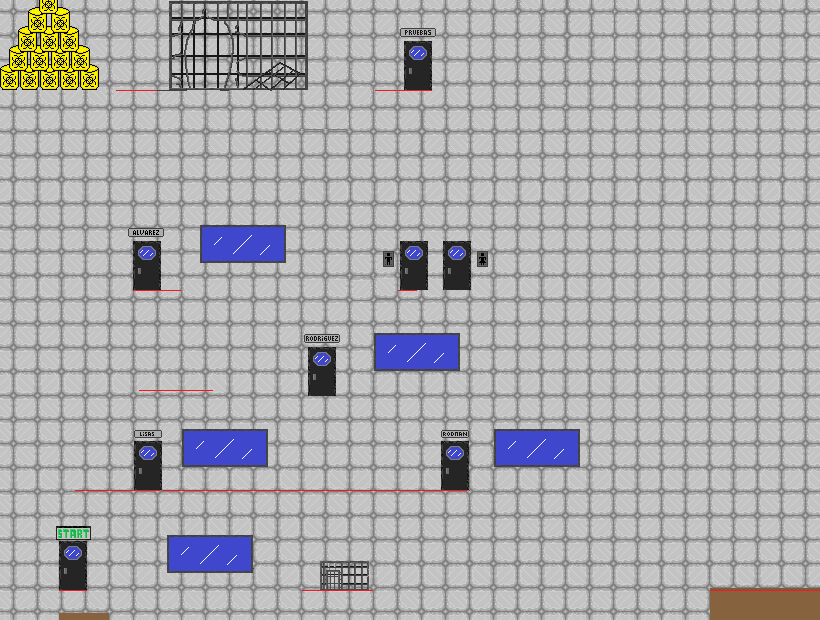
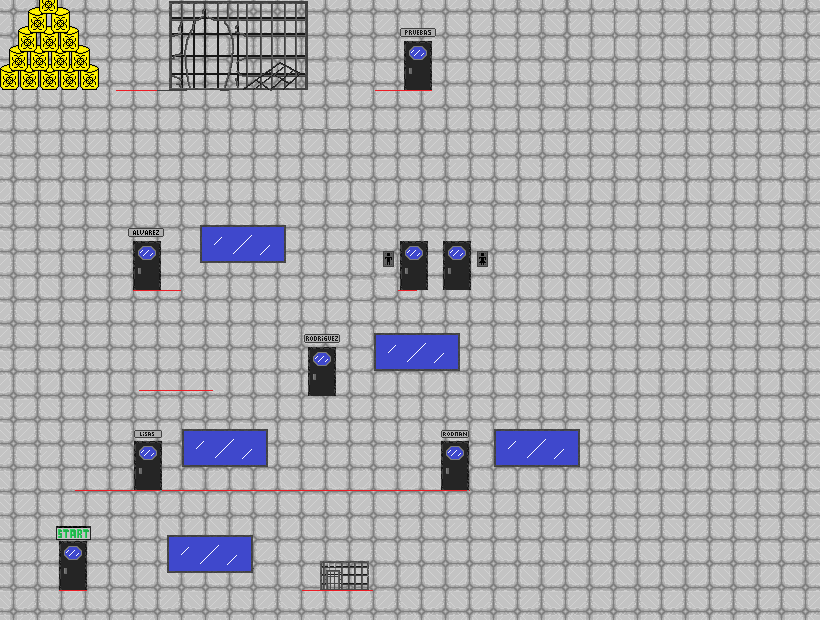
Fondo antiguo

Changed region(s): [[0.8537, 0.95, 1.0, 1.0], [0.061, 0.9806, 0.1524, 1.0]]

diff --git a/Donkey - Grupo Lisas- Apellido2 - Apellido3/src/juego/Mapa.java b/Donkey - Grupo Lisas- Apellido2 - Apellido3/src/juego/Mapa.java
@@ -14,7 +14,7 @@ public class Mapa
 	
 	Mapa()
 	{
-		fondo = Herramientas.cargarImagen("Fondo.jpg");
+		fondo = Herramientas.cargarImagen("Fondo.png");
 		
 		vigas=new Viga[6];
 		escaleras = new Escalera[9];
